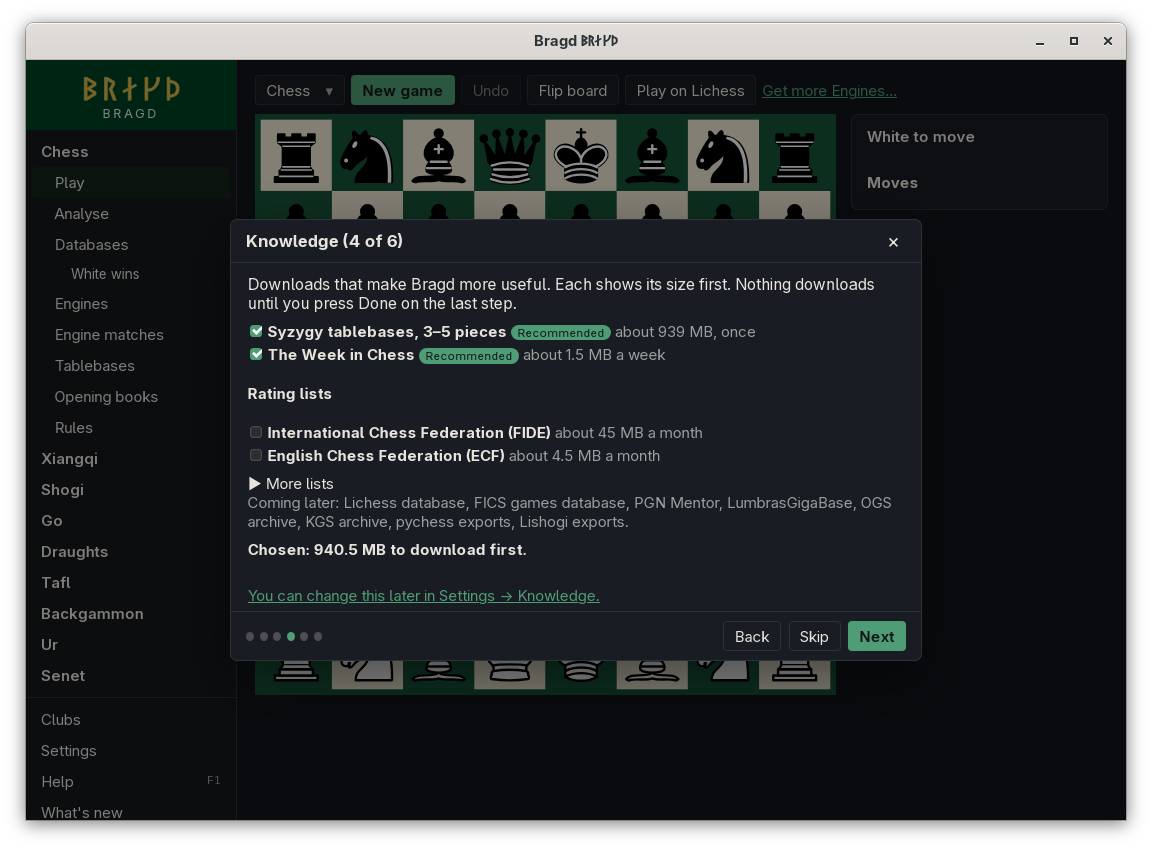
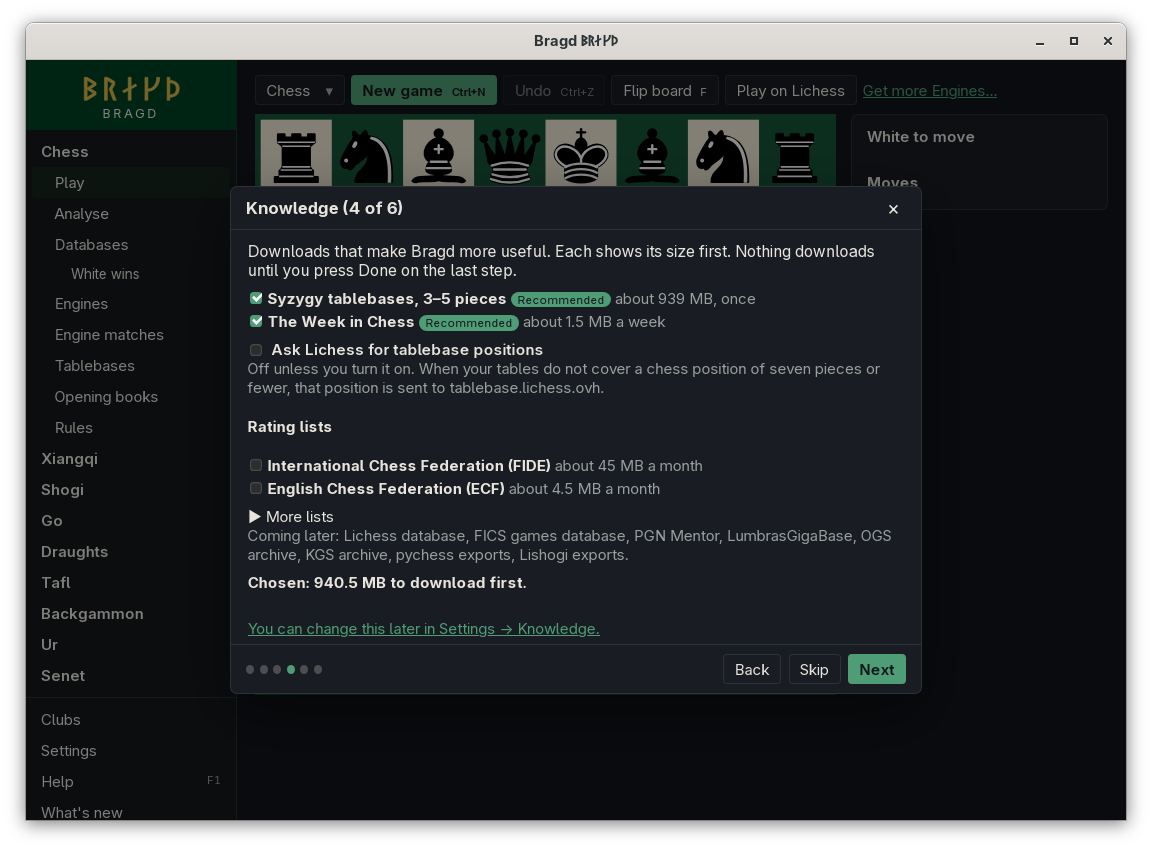
The wizard offers the Lichess tablebase lookups beside the tablebase download.

Changed region(s): [[0.2188, 0.2144, 0.8125, 0.8269], [0.375, 0.0919, 0.8438, 0.1225]]

diff --git a/gui/src/Wizard.svelte b/gui/src/Wizard.svelte
@@ -197,6 +197,10 @@
         <ul class="offers">
           {#each data.offers.filter((/** @type {any} */ o) => !o.list) as o (o.id)}{@render offer(o)}{/each}
         </ul>
+        {#if opt("tablebases_online")?.listed}
+          <label class="check"><input type="checkbox" checked={opt("tablebases_online").value} onchange={(e) => save("tablebases_online", e.currentTarget.checked)} /> {opt("tablebases_online").label}</label>
+          <p class="dim">{opt("tablebases_online").hint}</p>
+        {/if}
         {#if data.offers.some((/** @type {any} */ o) => o.list)}
           <h4>{t("clubs.lists")}</h4>
           <ul class="offers">
@@ -210,10 +214,6 @@
               {#each data.offers.filter((/** @type {any} */ o) => o.more) as o (o.id)}{@render offer(o)}{/each}
             </ul>
           </details>
-        {/if}
-        {#if opt("tablebases_online")?.listed}
-          <label class="check"><input type="checkbox" checked={opt("tablebases_online").value} onchange={(e) => save("tablebases_online", e.currentTarget.checked)} /> {opt("tablebases_online").label}</label>
-          <p class="dim">{opt("tablebases_online").hint}</p>
         {/if}
         {#if data.coming}<p class="dim">{data.coming}</p>{/if}
         {#if data.offers.length === 0}

diff --git a/docs/getting-started/first-start.md b/docs/getting-started/first-start.md
@@ -21,7 +21,7 @@ On the first start Bragd opens the install wizard: six short steps in a frame ov
 
 Choices in steps 1, 2 and 6 are saved at once, as in Settings. Nothing is downloaded until you press **Done** on the last step, which lists what will happen. Then Bragd turns the chosen Sources on in the Helper, starting the Helper if none runs, and starts the Syzygy download. **Skip** on step 4 unticks every download. Each download shows its size for one fetch and how often it comes, as on the Sources page: *about 45 MB a month*. When the chosen games have nothing to download yet, step 4 says so instead of a total. The wizard adds up the sizes and warns when the downloads would leave less than 5 GB free on the disk that holds Bragd's data. A single Source of 10 GB or more carries its own warning.
 
-![The Knowledge step: TWIC and Syzygy 3–5 ticked and marked Recommended, FIDE's rating list unticked, More lists folded, the line naming the Sources coming later, and the total under the list](../screenshots/wizard-knowledge-1100.png)
+![The Knowledge step: TWIC and Syzygy 3–5 ticked and marked Recommended, Ask Lichess for tablebase positions unticked with where positions go, FIDE's rating list unticked, More lists folded, the line naming the Sources coming later, and the total under the list](../screenshots/wizard-knowledge-1100.png)
 *Step 4, Knowledge: each download with its size, and the total.*
 
 ![The Helper step: the Start with my session switch, and the list of what Done will do](../screenshots/wizard-helper-1100.png)
